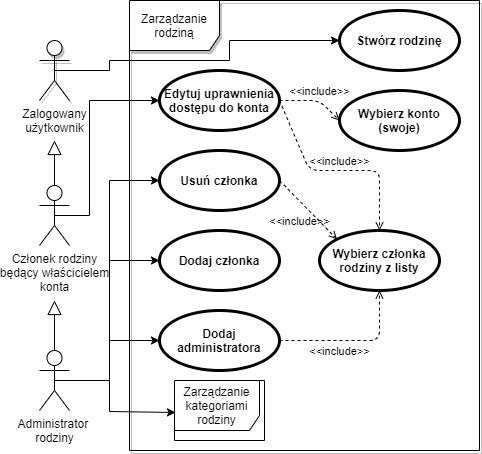
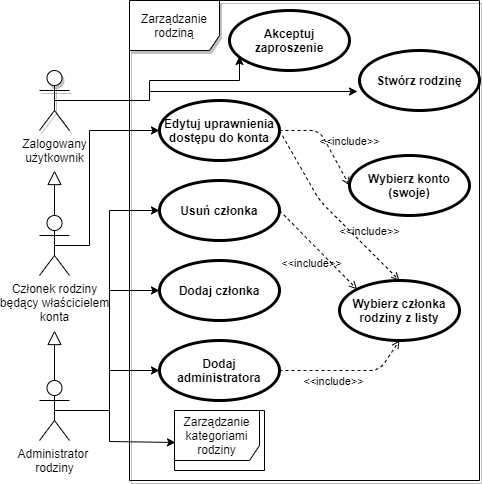
Skonczenie przypadków uzycia.

diff --git a/rozdzial03.tex b/rozdzial03.tex
@@ -12,7 +12,7 @@ Poniżej opisano przypadki użycia dotyczące zarządzania kontem pieniężnym u
 \begin{enumerate}[labelwidth=1em,label=\arabic*.]
 \item \textbf{Nazwa:} Dodaj konto \newline
     \textbf{Aktor:} Zalogowany użytkownik \newline
-    \textbf{Warunki początkowe:} Użytkownik musi posiadać wcześniej założone konto i się na nie zalogować. \newline
+    \textbf{Warunki początkowe:} Użytkownik musi się wcześniej zarejestrować i być zalogowany w momencie tworzenia konta. \newline
     \textbf{Warunki końcowe:} Stan konta musi być zgodny z polityką dla jego typu. \newline
     \textbf{Cel:} Stworzenie w systemie konta pieniężnego przypisanego do aktora wykonującego tę operację, aby umożliwić zapisywanie informacji o przepływie gotówki. \newline
     \textbf{Przebieg:} Użytkownik wypełnia formularz. Wpisuje wymagane pola: nazwa konta, saldo początkowe i limit debetu oraz opcjonalne pola: numer konta, waluta i opis. Wybiera także typ konta.
@@ -45,23 +45,23 @@ Poniżej opisano przypadki użycia dotyczące zarządzania kontem pieniężnym u
 
 \subsection{Wymagania dotyczące środków finansowych}
 \label{subsec:wymagania-srodki-finansowe}
-Na rysunku~\ref{fig:use-case-money} przedstawiono przypadki użycia związane z definiowaniem przepływu gotówki w ramach kont pieniężnych. Poniżej znajdują się także ich opisy.
+Na rysunku~\ref{fig:use-case-money} przedstawiono przypadki użycia związane z definiowaniem przepływu gotówki dla kont pieniężnych. Poniżej znajdują się także ich opisy.
 
 \begin{enumerate}[labelwidth=1em,label=\arabic*.]
 \item \textbf{Nazwa:} Dodaj wydatek/przychód \newline
-    \textbf{Aktor:} Właściciel konta \newline
-    \textbf{Warunki początkowe:} Użytkownik zdefiniował co najmniej jedną kategorię dla operacji finansowych. \newline
+    \textbf{Aktor:} Uprawniony przez właściciela członek rodziny \newline
+    \textbf{Warunki początkowe:} Administrator rodziny zdefiniował co najmniej jedną kategorię dla operacji finansowych. \newline
     \textbf{Warunki końcowe:} Stan konta po operacji dodania wydatku musi być zgodny z polityką dla typu konta. \newline
     \textbf{Cel:} Zdefiniowanie operacji pieniężnej w ramach konta. \newline
     \textbf{Przebieg:} Użytkownik tworzy wydatek lub przychód wpisując obowiązkowe pola: kwota i data, a także te dodatkowe: notatka, odbiorca. Użytkownik musi także wybrać kategorię. 
 \item \textbf{Nazwa:} Usuń wydatek/przychód \newline
-    \textbf{Aktor:} Właściciel konta \newline
+    \textbf{Aktor:} Uprawniony przez właściciela członek rodziny \newline
     \textbf{Warunki początkowe:} Konto posiada co najmniej jeden wpis: wydatek lub przychód. \newline
     \textbf{Warunki końcowe:} Stan konta po operacji usunięcia przychodu musi być zgodny z polityką dla typu konta. \newline
     \textbf{Cel:} Usunięcie operacji pieniężnej w ramach konta. \newline
     \textbf{Przebieg:} Użytkownik wybiera wydatek lub przychód, a następnie naciska guzik usuń. 
 \item \textbf{Nazwa:} Edytuj wydatek/przychód \newline
-    \textbf{Aktor:} Właściciel konta \newline
+    \textbf{Aktor:} Uprawniony przez właściciela członek rodziny \newline
     \textbf{Warunki początkowe:} Konto posiada co najmniej jeden wpis: wydatek lub przychód. \newline
     \textbf{Warunki końcowe:} Stan konta po edycji wpisu musi być zgodny z polityką dla typu konta. \newline
     \textbf{Cel:} Edycja operacji pieniężnej w ramach konta. \newline
@@ -71,14 +71,14 @@ Na rysunku~\ref{fig:use-case-money} przedstawiono przypadki użycia związane z 
         \item Użytkownik edytuje kategorię wpisu: Wybór kategorii.
     \end{enumerate}
 \item \textbf{Nazwa:} Wykonaj przelew \newline
-    \textbf{Aktor:} Właściciel konta \newline
-    \textbf{Warunki początkowe:} Użytkownik zdefiniował co najmniej jedną kategorię dla operacji finansowych. \newline
+    \textbf{Aktor:} Uprawniony przez właściciela członek rodziny \newline
+    \textbf{Warunki początkowe:} Administrator rodziny zdefiniował co najmniej jedną kategorię dla operacji finansowych. \newline
     \textbf{Warunki końcowe:} Stan konta po przelewie musi być zgodny z polityką dla typu konta. \newline
-    \textbf{Cel:} Wykonanie przelewu między kontami \newline
+    \textbf{Cel:} Wykonanie przelewu między kontami lub zewnętrznego. \newline
     \textbf{Przebieg:} Użytkownik definiuje przelew wpisując obowiązkowe pola: kwota i data, a także dodatkowe: notatka, odbiorca. Użytkownik musi także wybrać kategorię. \newline
-    \textbf{Rozszerzenia: } %TODO strzalka icnlude do wybierz kategorie
+    \textbf{Rozszerzenia: }
     \begin{enumerate}[label=\alph*)]
-        \item Użytkownik definiuje przelew między własnymi kontami: Przelew własny.
+        \item Użytkownik definiuje przelew między kontami rodziny: Przelew własny.
     \end{enumerate}
 \end{enumerate}
 
@@ -89,27 +89,87 @@ Na rysunku~\ref{fig:use-case-money} przedstawiono przypadki użycia związane z 
 	\label{fig:use-case-money}
 \end{figure}
 
-%Na razie do wglądu diagramy use cases
-% Jest kilka kwestii do dyskusji
-% W systemie powinny być kategorie usera i rodziny. User moze edytowac swoje kategorie a admin rodziny rodzinne kategorie. Gdy konto jest dodane do rodziny mozna mu dodawac kategorie rodziny ale tez usera
-% 1 pytanie czy use case diagram dla category jest poprawny (generalizacja) Moze powinny byc osobne use casy dla kategorii rodziny i osobne dla kategorii usera
+\subsection{Wymagania dotyczące rodziny}
+\label{subsec:wymagania-rodzina}
+Wymagania funkcjonalne dotyczące obsługi w aplikacji grupy rodziny, dalej zwanej rodziną, przedstawione zostały na~ rysunku~\ref{fig:use-case-family}. Poniżej znajdują się także ich szczegółowe opisy.
 
-%2 family use case: czy admin powinien moc nadawac uprawnienia do nieswojego konta? Cz powinien admin moze domyslnie i zawsze dodawac wydatki do nieswojego konta, czy moze wlasciciel musi mu nadac uprawninia. 
+\begin{enumerate}[labelwidth=1em,label=\arabic*.]
+\item \textbf{Nazwa:} Stwórz rodzinę \newline
+    \textbf{Aktor:} Zalogowany użytkownik \newline
+    \textbf{Warunki początkowe:} Użytkownik zarejestrował się w aplikacji. \newline
+    \textbf{Warunki końcowe:} Użytkownik staje się administratorem nowoutworzonej rodziny. \newline
+    \textbf{Cel:} Stworzenie rodziny, w ramach której można współdzielić konta pieniężne i ich historie. \newline
+    \textbf{Przebieg:} Rodzina zostaje stworzona w momencie rejestracji. 
+\item \textbf{Nazwa:} Akceptuj zaproszenie \newline
+    \textbf{Aktor:} Zalogowany użytkownik \newline
+    \textbf{Warunki początkowe:} Administrator innej rodziny dodał do niej użytkownika. \newline
+    \textbf{Warunki końcowe:} Użytkownik zaakceptował zaproszenie.  \newline
+    \textbf{Cel:} Dołączenie do nowej rodziny. \newline
+    \textbf{Przebieg:} Użytkownik wyświetla zaproszenia do rodziny. Następnie akceptuje zaproszenie do jednej, bądź wielu z nich.
+\item \textbf{Nazwa:} Dodaj członka \newline
+    \textbf{Aktor:} Administrator rodziny \newline
+    \textbf{Warunki początkowe:} Użytkownik stworzył rodzinę. \newline
+    \textbf{Warunki końcowe:} Użytkownik akceptuje zaproszenie do rodziny.  \newline
+    \textbf{Cel:} Dodanie nowego członka do rodziny, aby współdzielić historię finansową. \newline
+    \textbf{Przebieg:} Administrator wpisuję login użytkownika, którego chce dodać i zatwierdza wybór guzikiem. 
+\item \textbf{Nazwa:} Usuń członka \newline
+    \textbf{Aktor:} Administrator rodziny \newline
+    \textbf{Warunki początkowe:} Użytkownik dodał do rodziny co~najmniej jednego innego członka. \newline
+    \textbf{Warunki końcowe:} --  \newline
+    \textbf{Cel:} Usunięcie członka z rodziny. \newline
+    \textbf{Przebieg:} Administrator naciska guzik usuń członka, a następnie potwierdza swoją akcję.
+\item \textbf{Nazwa:} Edytuj uprawnienia dostępu do konta \newline
+    \textbf{Aktor:} Członek rodziny będący właścicielem konta \newline
+    \textbf{Warunki początkowe:} Użytkownik jest właścicielem konta. W rodzinie, do której przypisane jest konto jest więcej niż jeden członek. \newline
+    \textbf{Warunki końcowe:} Właściciel konta potwierdza nadanie uprawnień naciskając guzik. \newline
+    \textbf{Cel:} Nadanie uprawnień członkowi rodziny, aby mógł publikować wpisy w ramach konta i/lub przeglądać jego historię.  \newline
+    \textbf{Przebieg:} Właściciel konta wybiera z listy jedno ze swoich kont w ramach rodziny. Następnie z listy wybiera członka rodziny, któremu chce nadać uprawnienia. Nadaje członkowi uprawnienia spośród: prawo do wglądu, prawo do dodawania wpisów.
+    Swój wybór zatwierdza guzikiem ,,zatwierdź''.
+\end{enumerate}
 
-\begin{figure}[p]
-	\centering
-	\fbox{\includegraphics[width=.65\linewidth]{rys03/use-case-family.png}}
-	\caption{Diagram przypadków użycia dla kategorii}
-	\label{fig:use-case-category}
-\end{figure}
-
-\begin{figure}[p]
+\begin{figure}[t]
 	\centering
 	\fbox{\includegraphics[width=.65\linewidth]{rys03/use-case-family.png}}
 	\caption{Diagram przypadków użycia dla rodziny}
 	\label{fig:use-case-family}
 \end{figure}
 
+\subsection{Wymagania dotyczące kategorii}
+\label{subsec:wymagania-kategorie}
+
+\begin{enumerate}[labelwidth=1em,label=\arabic*.]
+\item \textbf{Nazwa:} Dodaj kategorię \newline
+    \textbf{Aktor:} Zalogowany użytkownik \newline
+    \textbf{Warunki początkowe:} Użytkownik zarejestrował się w aplikacji. \newline
+    \textbf{Warunki końcowe:} Nazwa kategorii w swoim poddrzewie jest unikatowa. \newline
+    \textbf{Cel:} Stworzenie kategorii, aby łatwiej segregować wydatki i przychody. \newline
+    \textbf{Przebieg:} Użytkownik naciska guzik dodaj kategorię na drzewie kategorii. Następnie wpisuje jej nazwę i wybiera kolor wyświetlania wpisów przypisanych do niej.
+\item \textbf{Nazwa:} Edytuj kategorię \newline
+    \textbf{Aktor:} Zalogowany użytkownik \newline
+    \textbf{Warunki początkowe:} Użytkownik dodał co najmniej jedną kategorię. \newline
+    \textbf{Warunki końcowe:} Nazwa kategorii w swoim poddrzewie jest unikatowa. \newline
+    \textbf{Cel:} Edycja istniejącej kategorii bez utraty historii wpisów tej kategorii. \newline
+    \textbf{Przebieg:} Użytkownik edytuje nazwę i kolor kategorii. Może także przeciągnąć ją do innej kategorii nadrzędnej lub zrobić z niej kategorię najwyższego rzędu.
+\item \textbf{Nazwa:} Ukryj kategorię \newline
+    \textbf{Aktor:} Zalogowany użytkownik \newline
+    \textbf{Warunki początkowe:} Użytkownik dodał co najmniej jedną kategorię. \newline
+    \textbf{Warunki końcowe:} -- \newline
+    \textbf{Cel:} Ukrycie istniejącej kategorii bez utraty historii wpisów tej kategorii. \newline
+    \textbf{Przebieg:} Użytkownik w menu kategorii klika ukryj.
+\item \textbf{Nazwa:} Usuń kategorię \newline
+    \textbf{Aktor:} Zalogowany użytkownik \newline
+    \textbf{Warunki początkowe:} Użytkownik dodał co najmniej jedną kategorię. Kategoria nie posiada żadnych wpisów. \newline
+    \textbf{Warunki końcowe:} Nie istnieje wpis, który nie ma przypisanej kategorii. \newline
+    \textbf{Cel:} Usunięcie kategorii, do której nie jest przypisany żaden wpis. \newline
+    \textbf{Przebieg:} Użytkownik w menu kategorii klika usuń i zatwierdza wybór.
+\end{enumerate}
+
+\begin{figure}[t]
+	\centering
+	\fbox{\includegraphics[width=.65\linewidth]{rys03/use-case-category.png}}
+	\caption{Diagram przypadków użycia dla kategorii}
+	\label{fig:use-case-category}
+\end{figure}
 
 \section{Wymagania niefunkcjonalne}
 \label{sec:wymagania-niefunkcjonalne}
